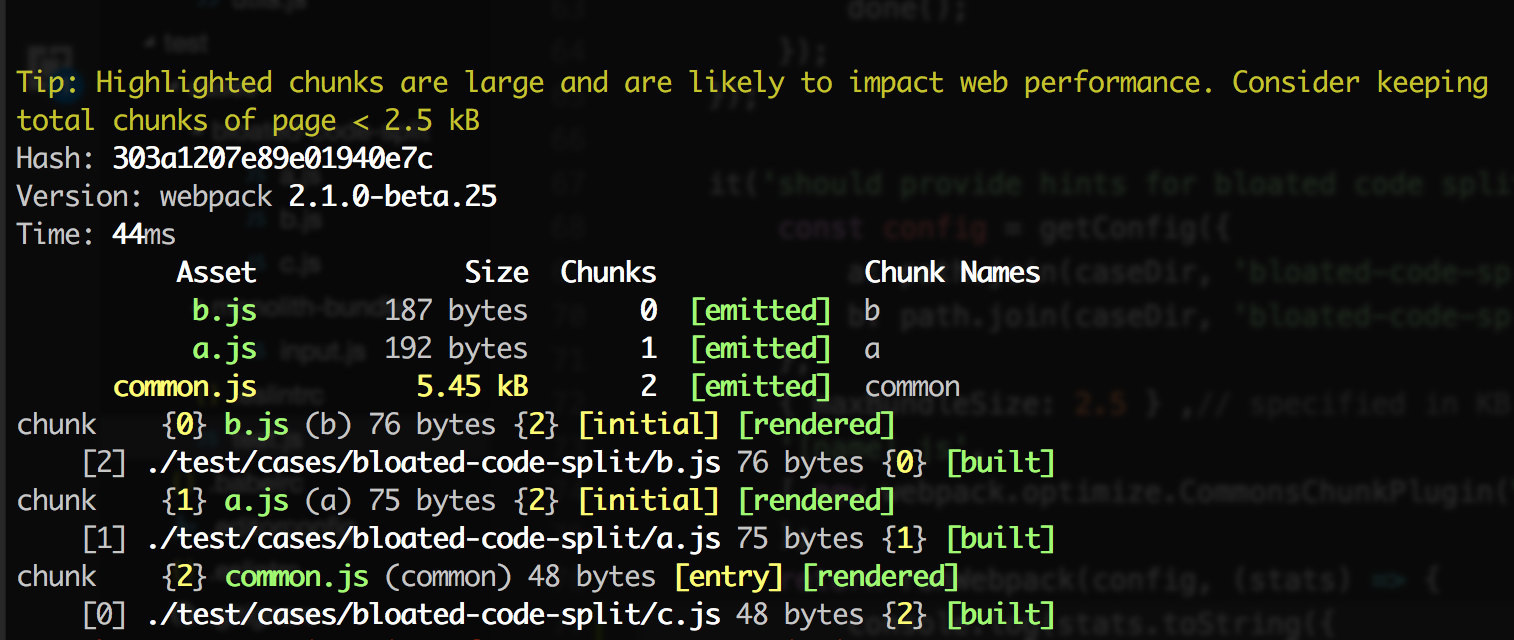
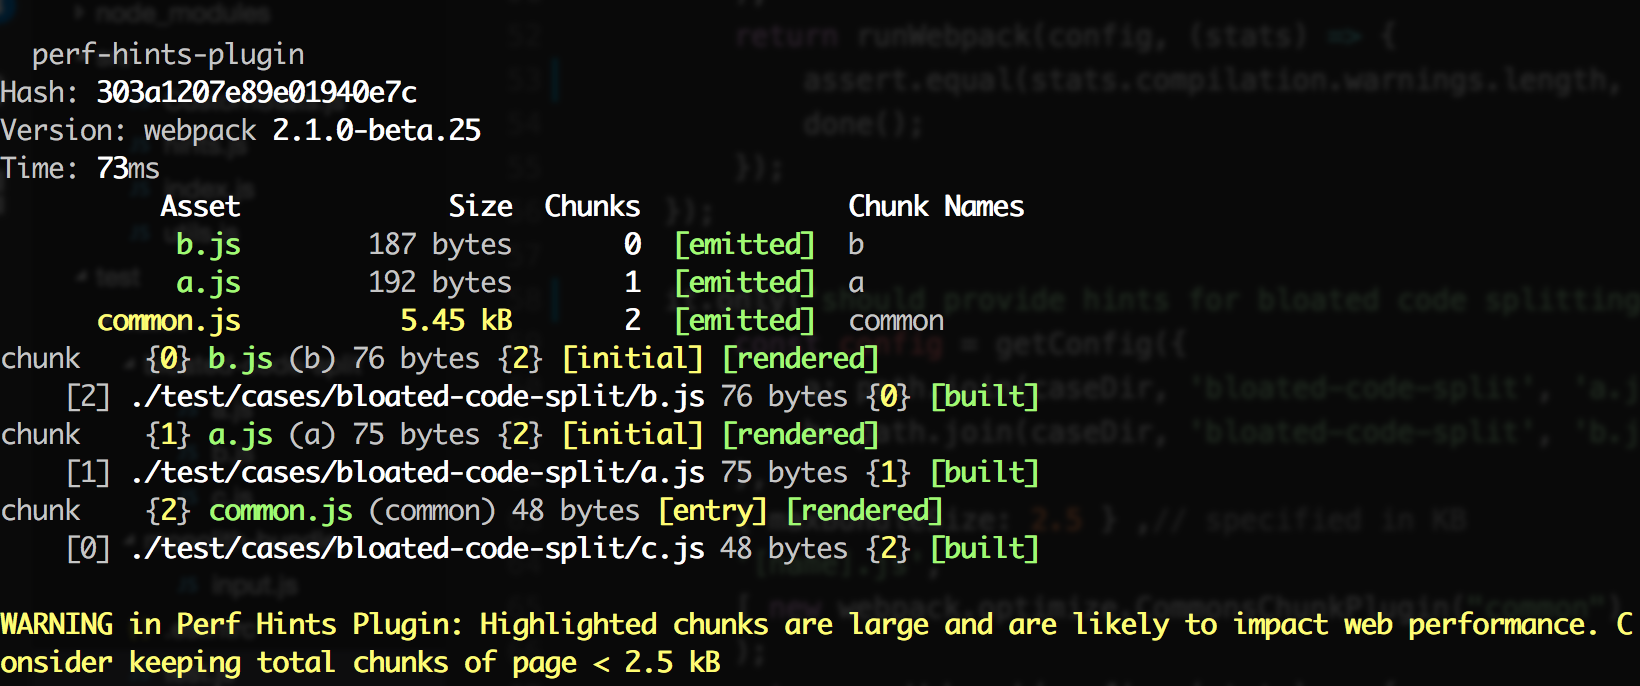
push hints as warnings and fix tests

Changed region(s): [[0.0, 0.0, 0.9934, 1.0], [0.4967, 0.2812, 0.6209, 0.3438]]

diff --git a/test/test.js b/test/test.js
@@ -40,13 +40,8 @@ const getBundle = () => fs.readFileSync(path.join(distDir, 'bundle.js'), 'utf-8'
 
 describe('perf-hints-plugin', () => {
 
-    beforeEach(() => {
-        // sinon.stub(console, 'warn');
-    });
-
     afterEach(() => {
         rimraf.sync(distDir);
-        // console.warn.restore();
     });
 
     it('should provide hints for huge monolith bundle', (done) => {
@@ -55,11 +50,7 @@ describe('perf-hints-plugin', () => {
             { maxBundleSize: 1 } // specified in KB
         );
         return runWebpack(config, (stats) => {
-            console.log(stats.toString({
-                colors: true
-            }))
-            assert.equal(stats.hints.length, 1);
-            assert(console.warn.called);
+            assert.equal(stats.compilation.warnings.length, 1);
             done();
         });
     });
@@ -74,11 +65,7 @@ describe('perf-hints-plugin', () => {
         [ new webpack.optimize.CommonsChunkPlugin("common") ]
         );
         return runWebpack(config, (stats) => {
-            console.log(stats.toString({
-                colors: true
-            }))
-            assert.equal(stats.hints.length, 1);
-            assert(console.warn.called);
+            assert.equal(stats.compilation.warnings.length, 1);
             done();
         });
     });

diff --git a/src/hints.js b/src/hints.js
@@ -6,12 +6,11 @@ module.exports.getJSHints = (noOfAssets, bundleSize, maxBundleSize) => {
     let jsHints = [];
     if (noOfAssets === 1 && isHugeBundle(bundleSize, maxBundleSize)) {
         jsHints.push(unpad(`
-            Tip: Instead of a single monolith bundle of size ${formatSize(bundleSize)}, use code-splitting in webpack to lazyload the modules. Learn more - https://webpack.github.io/docs/code-splitting.html
+            Perf Hints Plugin: Instead of a single monolith bundle of size ${formatSize(bundleSize)}, use code-splitting in webpack to lazyload the modules. Learn more - https://webpack.github.io/docs/code-splitting.html
         `));
     } else if (isHugeBundle(bundleSize, maxBundleSize)) {
         jsHints.push(unpad(`
-            Tip: Highlighted chunks are large and are likely to impact web performance. Consider keeping
-            total chunks of page < ${maxBundleSize} kB
+            Perf Hints Plugin: Highlighted chunks are large and are likely to impact web performance. Consider keeping total chunks of page < ${maxBundleSize} kB
         `));
     }
     return jsHints;

diff --git a/src/index.js b/src/index.js
@@ -1,5 +1,4 @@
 'use strict';
-const chalk = require('chalk');
 const { getJSHints } = require('./hints');
 const CustomStats = require('./CustomStats');
 
@@ -38,9 +37,7 @@ module.exports = class PerfHintsPlugin {
                 if (jsRegex.test(file)) {
                     hints.push(...getJSHints(noOfAssets, assetSize, this.maxBundleSize));
                 }
-                // Patch webpack stats Obj - For Testing Purpose only
-                stats.hints = hints;
-                console.warn(chalk.yellow(hints.join('')));
+                compilation.warnings.push(...hints);
             });
 
         });
